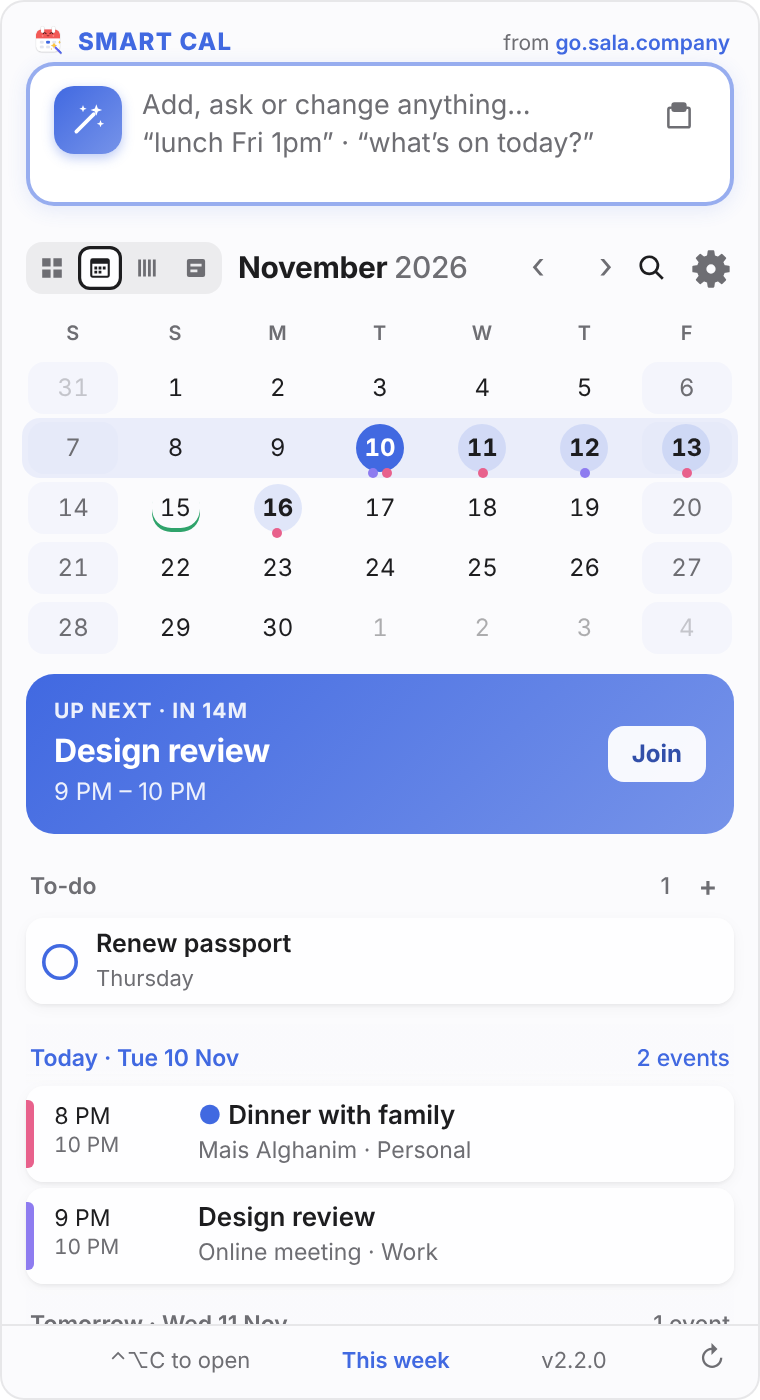
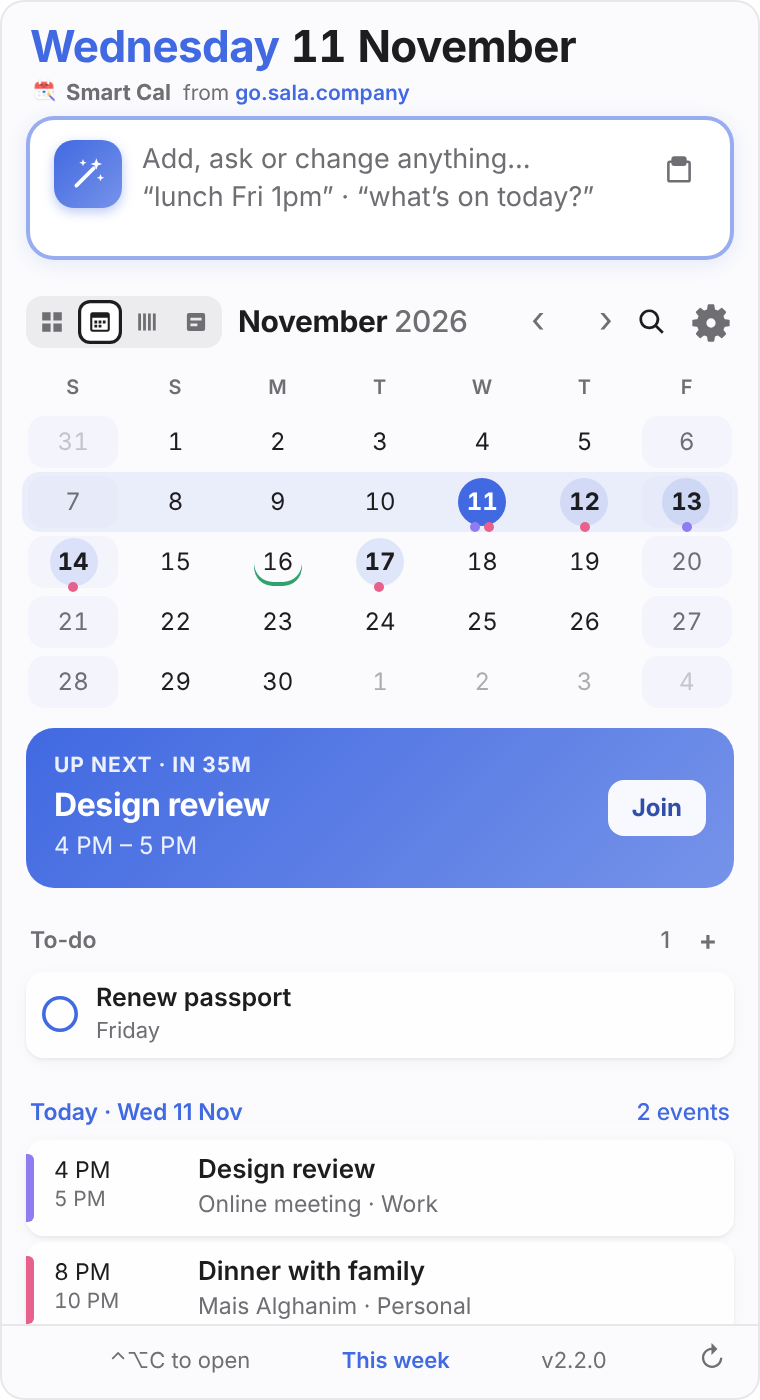
Show today's date as the panel's first line (v2.2.1)
Large weekday + date at the top of the panel ("Wednesday 11 November"),
full width so it never truncates; brand moves to a small line below.
Refreshes when the panel opens and at midnight; follows the app language.

Claude-Session: https://claude.ai/code/session_01Cjh7JM8M9G1nSw8NXVgGNz

diff --git a/frontend/app.js b/frontend/app.js
@@ -1180,9 +1180,25 @@ function renderFooter() {
 }
 
 let eventsSig = "";
+// ---------- today's date at the top of the panel ----------
+let todayTimer;
+function renderToday() {
+  const now = new Date();
+  const dow = now.toLocaleDateString(LOC(), { weekday: "long" });
+  const date = now.toLocaleDateString(LOC(), { day: "numeric", month: "long" });
+  if ($("todayDow").textContent !== dow) $("todayDow").textContent = dow;
+  if ($("todayDate").textContent !== date) $("todayDate").textContent = date;
+  $("todayLine").title = now.toLocaleDateString(LOC(), { weekday: "long", day: "numeric", month: "long", year: "numeric" });
+  // roll over at midnight even if the panel stays open
+  clearTimeout(todayTimer);
+  const next = new Date(now.getFullYear(), now.getMonth(), now.getDate() + 1, 0, 0, 1);
+  todayTimer = setTimeout(renderToday, Math.min(next - now, 36e5));
+}
+
 function applyState(st) {
   if (!st) return;
   S = st;
+  renderToday();
   const sig = (S.events || []).map((e) => e.id + e.start + e.end + e.title).join("|");
   if (eventsSig && sig !== eventsSig) {
     // something changed (here or in another app): drop cached ranges and reload what's open
@@ -2678,6 +2694,7 @@ function wire() {
   });
   Events.On("popover:shown", () => {
     if (SETTINGS_WIN) return;
+    renderToday();
     lastHourScroll = "";
     const now = new Date();
     viewMonth = startOfMonth(now); viewYear = now.getFullYear(); weekAnchor = weekStartFor(now);
@@ -2709,6 +2726,7 @@ if (SETTINGS_WIN) {
   document.body.classList.add("settings-win");
   $("closeSettings").classList.add("hidden"); // a Mac Settings window closes with its red button or ⌘W
 }
+renderToday();
 wire();
 renderMiniCal();
 if (SETTINGS_WIN) loadSettings("");

diff --git a/frontend/style.css b/frontend/style.css
@@ -63,11 +63,18 @@ a:hover { text-decoration: underline; }
 
 /* ---------- brand line ---------- */
 .brand {
-  display: flex; align-items: baseline; justify-content: space-between; gap: 8px;
-  padding: 10px 14px 0; flex: none;
+  display: flex; flex-direction: column; gap: 1px;
+  padding: 10px 14px 2px; flex: none;
 }
-.brand-icon { width: 18px; height: 18px; vertical-align: -4px; margin-right: 6px; }
-.brand-name { font-size: 12px; font-weight: 800; letter-spacing: .6px; text-transform: uppercase; color: var(--accent); }
+/* the first thing you see: today's date */
+.today-line {
+  min-width: 0; white-space: nowrap; overflow: hidden; text-overflow: ellipsis;
+  font-size: 22px; font-weight: 700; letter-spacing: -.3px; line-height: 1.2; font-variant-numeric: tabular-nums;
+}
+.today-dow { color: var(--accent); }
+.brand-side { display: flex; align-items: baseline; gap: 6px; line-height: 1.25; }
+.brand-icon { width: 14px; height: 14px; vertical-align: -2px; margin-right: 4px; }
+.brand-name { font-size: 11px; font-weight: 700; color: var(--muted); }
 .brand-by { font-size: 10.5px; color: var(--muted); }
 .brand-by a { font-weight: 600; }
 

diff --git a/frontend/index.html b/frontend/index.html
@@ -12,8 +12,12 @@
 <body>
   <div class="shell">
     <div class="brand">
-      <span class="brand-name"><img src="icon.png" alt="" class="brand-icon">Smart Cal</span>
-      <span class="brand-by">from <a href="#" data-url="https://go.sala.company">go.sala.company</a></span>
+      <!-- today's date, big, because sometimes you just need to know what day it is -->
+      <div class="today-line" id="todayLine"><span class="today-dow" id="todayDow"></span> <span class="today-date" id="todayDate"></span></div>
+      <div class="brand-side">
+        <span class="brand-name"><img src="icon.png" alt="" class="brand-icon">Smart Cal</span>
+        <span class="brand-by">from <a href="#" data-url="https://go.sala.company">go.sala.company</a></span>
+      </div>
     </div>
     <!-- ===== main view ===== -->
     <section id="main" class="view">

diff --git a/README.md b/README.md
@@ -7,7 +7,7 @@ A Fantastical-style **macOS menu bar calendar**, written in Go with **Wails v3**
 **Latest:** [download the newest release](https://github.com/jamalxcode/personalcalendar/releases/latest) · [what's new](CHANGELOG.md) · [design log](DESIGN.md)
 
 - **Menu bar** shows the next event compactly — `👥 2h Meet`, `🦷 25m Dentist`, `✈ Su 8a KU101` — with no icon while there is text. Ten styles plus fine-tune options in Settings → Menu bar.
-- **Panel** (click the menu bar text or press **⌃⌥C**, configurable): the AI box on top, a greeting, then Year / Month / Week / Day views (week = one line per day, day = one line per hour) with highlighted event days, weekends shaded and the current period highlighted, an *Up next* card with countdown + **Join**, and your upcoming events by day. Holidays show as small tags.
+- **Panel** (click the menu bar text or press **⌃⌥C**, configurable): **today's date in large letters as the first line** ("Wednesday 11 November"), the AI box, a greeting, then Year / Month / Week / Day views (week = one line per day, day = one line per hour) with highlighted event days, weekends shaded and the current period highlighted, an *Up next* card with countdown + **Join**, and your upcoming events by day. Holidays show as small tags.
 - **Click a day** for that day's agenda; **click an event** for its card — time, place (opens Maps), notes, attendees, Join — with **Delete** on the left, **Edit** on the right and a **⋯** menu for Duplicate, Pin as Countdown and Open in Calendar.
 - **AI box**: add (`dinner with Sara Thursday 8pm at Mais Alghanim`), ask (`what's on Thursday?`, `am I free tomorrow afternoon?`) or change (`move lunch to 3pm`, `push the dentist back by a week`, `move this to 1 month from now`, `cancel Friday's dentist`) — changes show a before/after preview first, only touch what you mention (in English or Arabic), keep the event's notes and time zone, and relative dates are calculated exactly. Uses your OpenRouter or OpenAI key; simple lines work offline without one.
 - **Flights**: flight numbers (KU 101, EK857) get a ✈ button that opens Flightradar24 — "Track live" while the plane is in the air.

diff --git a/DESIGN.md b/DESIGN.md
@@ -18,6 +18,12 @@ technical lessons are in [LESSONS.md](LESSONS.md).
 
 ---
 
+## v2.2.1 — Today's date first (11 Nov 2026)
+
+**Asked:** "when opening smart cal from the menu bar have today's date prominently shown as the first line in large letters, because sometimes you just need to know what day it is".
+
+**Decided:** the panel's first line is the date at 22 pt bold — weekday in the accent colour, then day and month ("Wednesday 11 November"); the year is in the tooltip, since the month header already shows it. It gets the full width so long dates never get cut off; the brand ("Smart Cal · from go.sala.company") moved to a small muted line underneath. It refreshes when the panel opens and at midnight, and uses the app's language.
+
 ## v2.2 — Siri & Apple Intelligence removed, Mac conventions, AI edit fixes (10 Nov 2026)
 
 Screenshots: [panel](docs/design/v2.2-panel.png) · [event card](docs/design/v2.2-event-card.png) · [Settings](docs/design/v2.2-settings-window.png).

diff --git a/CHANGELOG.md b/CHANGELOG.md
@@ -2,6 +2,10 @@
 
 Release notes shown in the app's Update panel come from the matching section here.
 
+## v2.2.1
+
+- **Today's date at the top:** opening Smart Cal shows the date in large letters as the first line — "Wednesday 11 November" — because sometimes you just need to know what day it is. It rolls over at midnight, follows the app's language (Arabic too), and the full date with the year shows when you point at it
+
 ## v2.2.0
 
 - Removed Apple Intelligence and Siri / Shortcuts for now — they rely on features Apple hasn't officially released yet. The AI box uses your OpenRouter or OpenAI key (Settings → AI); simple lines still work offline without a key
